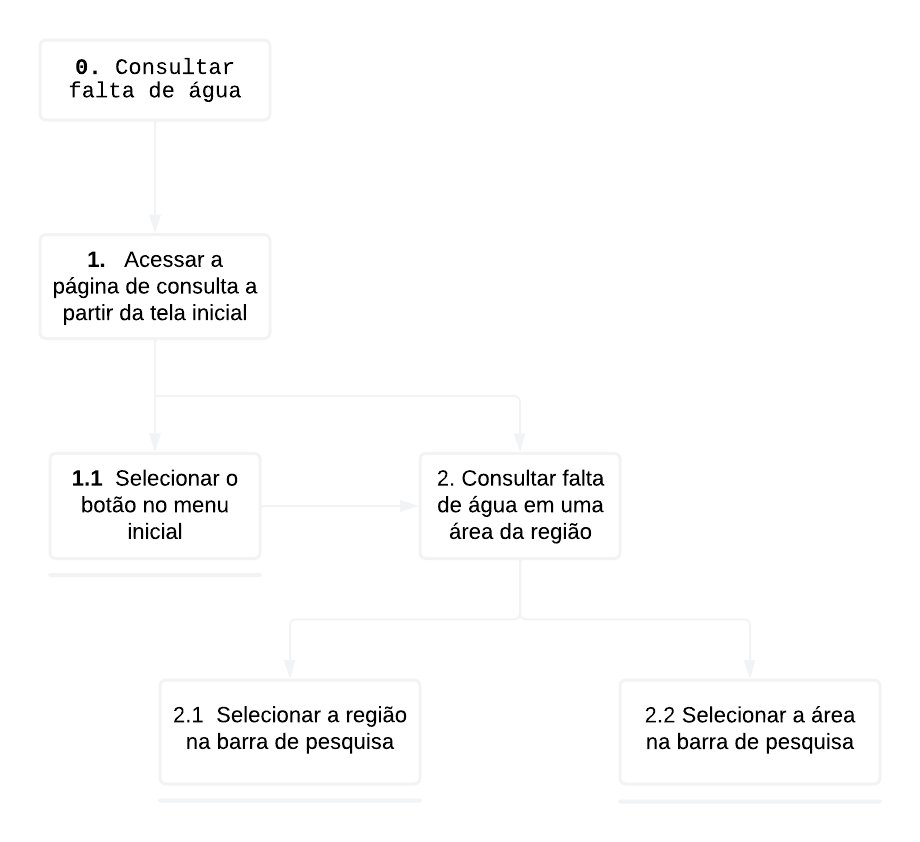
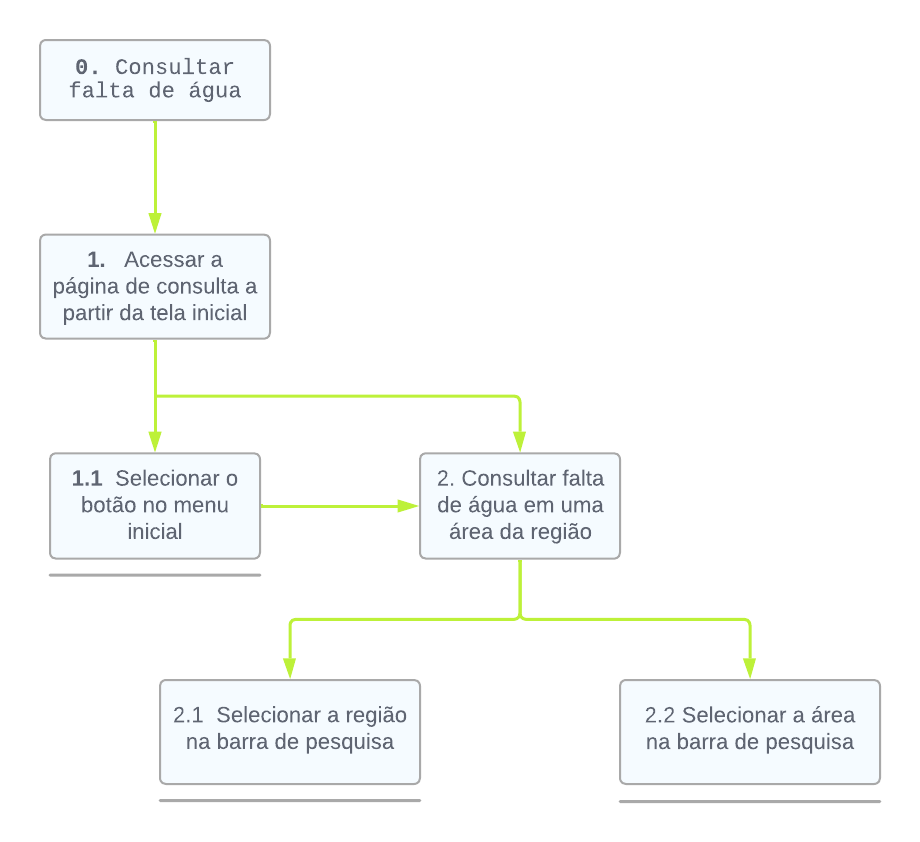
Adicionando Análise da consulta a contas pagas

diff --git a/docs/analise-de-requisitos/analise-de-tarefas.md b/docs/analise-de-requisitos/analise-de-tarefas.md
@@ -11,7 +11,40 @@
 
 ## Consultar Contas Pagas
 
-## Consultar falta de água
+<p align="justify">&emsp;&emsp;Nessa tarefa, o usuário precisa acessar a página de consultar contas pagas, realizar login e acessar informações a respeito das faturas pagas listadas com base no mês. A figura 2 e a tabela 1 apresentam, respectivamente, o diagrama e a tabela HTA da tarefa.</p>
+
+<figure markdown>
+<font size="3"><b>Figura 2</b> - Diagrama HTA de consulta a Contas Pagas.</font>
+
+![Notação diagrama HTA](../../assets/analise_de_tarefas/HTAlight_fatura_paga.png#only-light){width=500px}
+![Notação diagrama HTA](../../assets/analise_de_tarefas/HTAdark_fatura_paga.png#only-dark){width=500px}
+
+<font size="3"><p style="text-align: center">Fonte: <a href="https://github.com/JeffersonSenaa" target="_blank">Jefferson Sena</a></p></font>
+
+</figure>
+
+<font size="3"><p style="text-align: center"><b>Tabela 1</b> - HTA de consulta a Contas Pagas.</p></font>
+
+|     Objetivos/Operações      | Problemas e recomendações                                                                                                                                                                               |
+| :--------------------------: | ------------------------------------------------------------------------------------------------------------------------------------------------------------------------------------------------------- |
+|  0. consultar contas pagas   |                                                                                                                                                                                                         |
+|      1.   Acessar a aba Portal de Serviços |**feedback**: usuário é redirecionado para a página Portal de Serviços.<br> **plano**: clicar na imagem portal de serviços - autoatendimento. |
+|     2.  Selecionar Contas Pagas | **feedback**: usuário é redirecionado para a página de login.  <br> **plano**: clicar no botão Contas Pagas. |
+|       3. Fazer Login  | **input**: Dados de login.<br>  **feedback**: usuário é redirecionado para a página de  inscrições. <br>**plano**: Acessar área de inscrições. <br>|
+| 3.1 Pesquisar com minha inscrição   | **feedback**: O usuário é redirecionado para uma página com uma lista de faturas pagas de acordo com o mês.<br>    **plano**: Clicar no botão pesquisar.|
+| 3.2 Pesquisar com outra inscrição  | **feedback**: O usuário é redirecionado para uma página para inserir a inscrição respectiva.  <br>    **plano**: Clicar na aba "Pesquisar outra inscrição".|
+
+<font size="3"><p style="text-align: center">Fonte: <a href="https://github.com/JeffersonSenaa" target="_blank">Jefferson Sena</a></p></font>
+</br>
+
+
+
+
+
+
+
+
+## Consultar Falta de Água
 
 <p align="justify">&emsp;&emsp;Nessa tarefa, o usuário precisa acessar a página de consulta a falta de água e acessar informações a respeito da falta de água em um área de uma região administrativa do DF. A figura 3 e a tabela 2 apresentam, respectivamente, o diagrama HTA da tarefa e o HTA em tabela</p>
 
@@ -42,7 +75,7 @@
 ## Referências 
 > <p id="1"> 1. BARBOSA, S. D. J.; SILVA, B. S. Interação Humano-Computador. Rio de Janeiro: Elsevier, 2010.</p>
 
-> <p id="3">3. Bilheteria Digital. Disnível em> <a href="https://interacao-humano-computador.github.io/2023.1-BilheteriaDigital/analise-de-requisitos/analise-de-tarefas/hta/">https://interacao-humano-computador.github.io/2023.1-BilheteriaDigital/analise-de-requisitos/analise-de-tarefas/hta/</a>. Acesso em 14 de outubro de 2023.</p>
+> <p id="3">3. Bilheteria Digital. Disnível em> <a href="https://interacao-huma no-computador.github.io/2023.1-BilheteriaDigital/analise-de-requisitos/analise-de-tarefas/hta/">https://interacao-humano-computador.github.io/2023.1-BilheteriaDigital/analise-de-requisitos/analise-de-tarefas/hta/</a>. Acesso em 14 de outubro de 2023.</p>
 
 
 ## Histórico de versão
@@ -52,4 +85,4 @@
 | :----: | :--------: | :------------------: | :-----: | :-----: |
 |  1.0   | 14/10/2023 | Adicionando Análise de Tarefas | Jefferson | Tiago |
 |  1.1   | 15/10/2023 | Adicionando Análise de Tarefas | Tiago | Jefferson |
-</center>
+|  1.2   | 15/10/2023 | Adicionando Análise da consulta a contas pagas | Jefferson | Tiago |</center>
